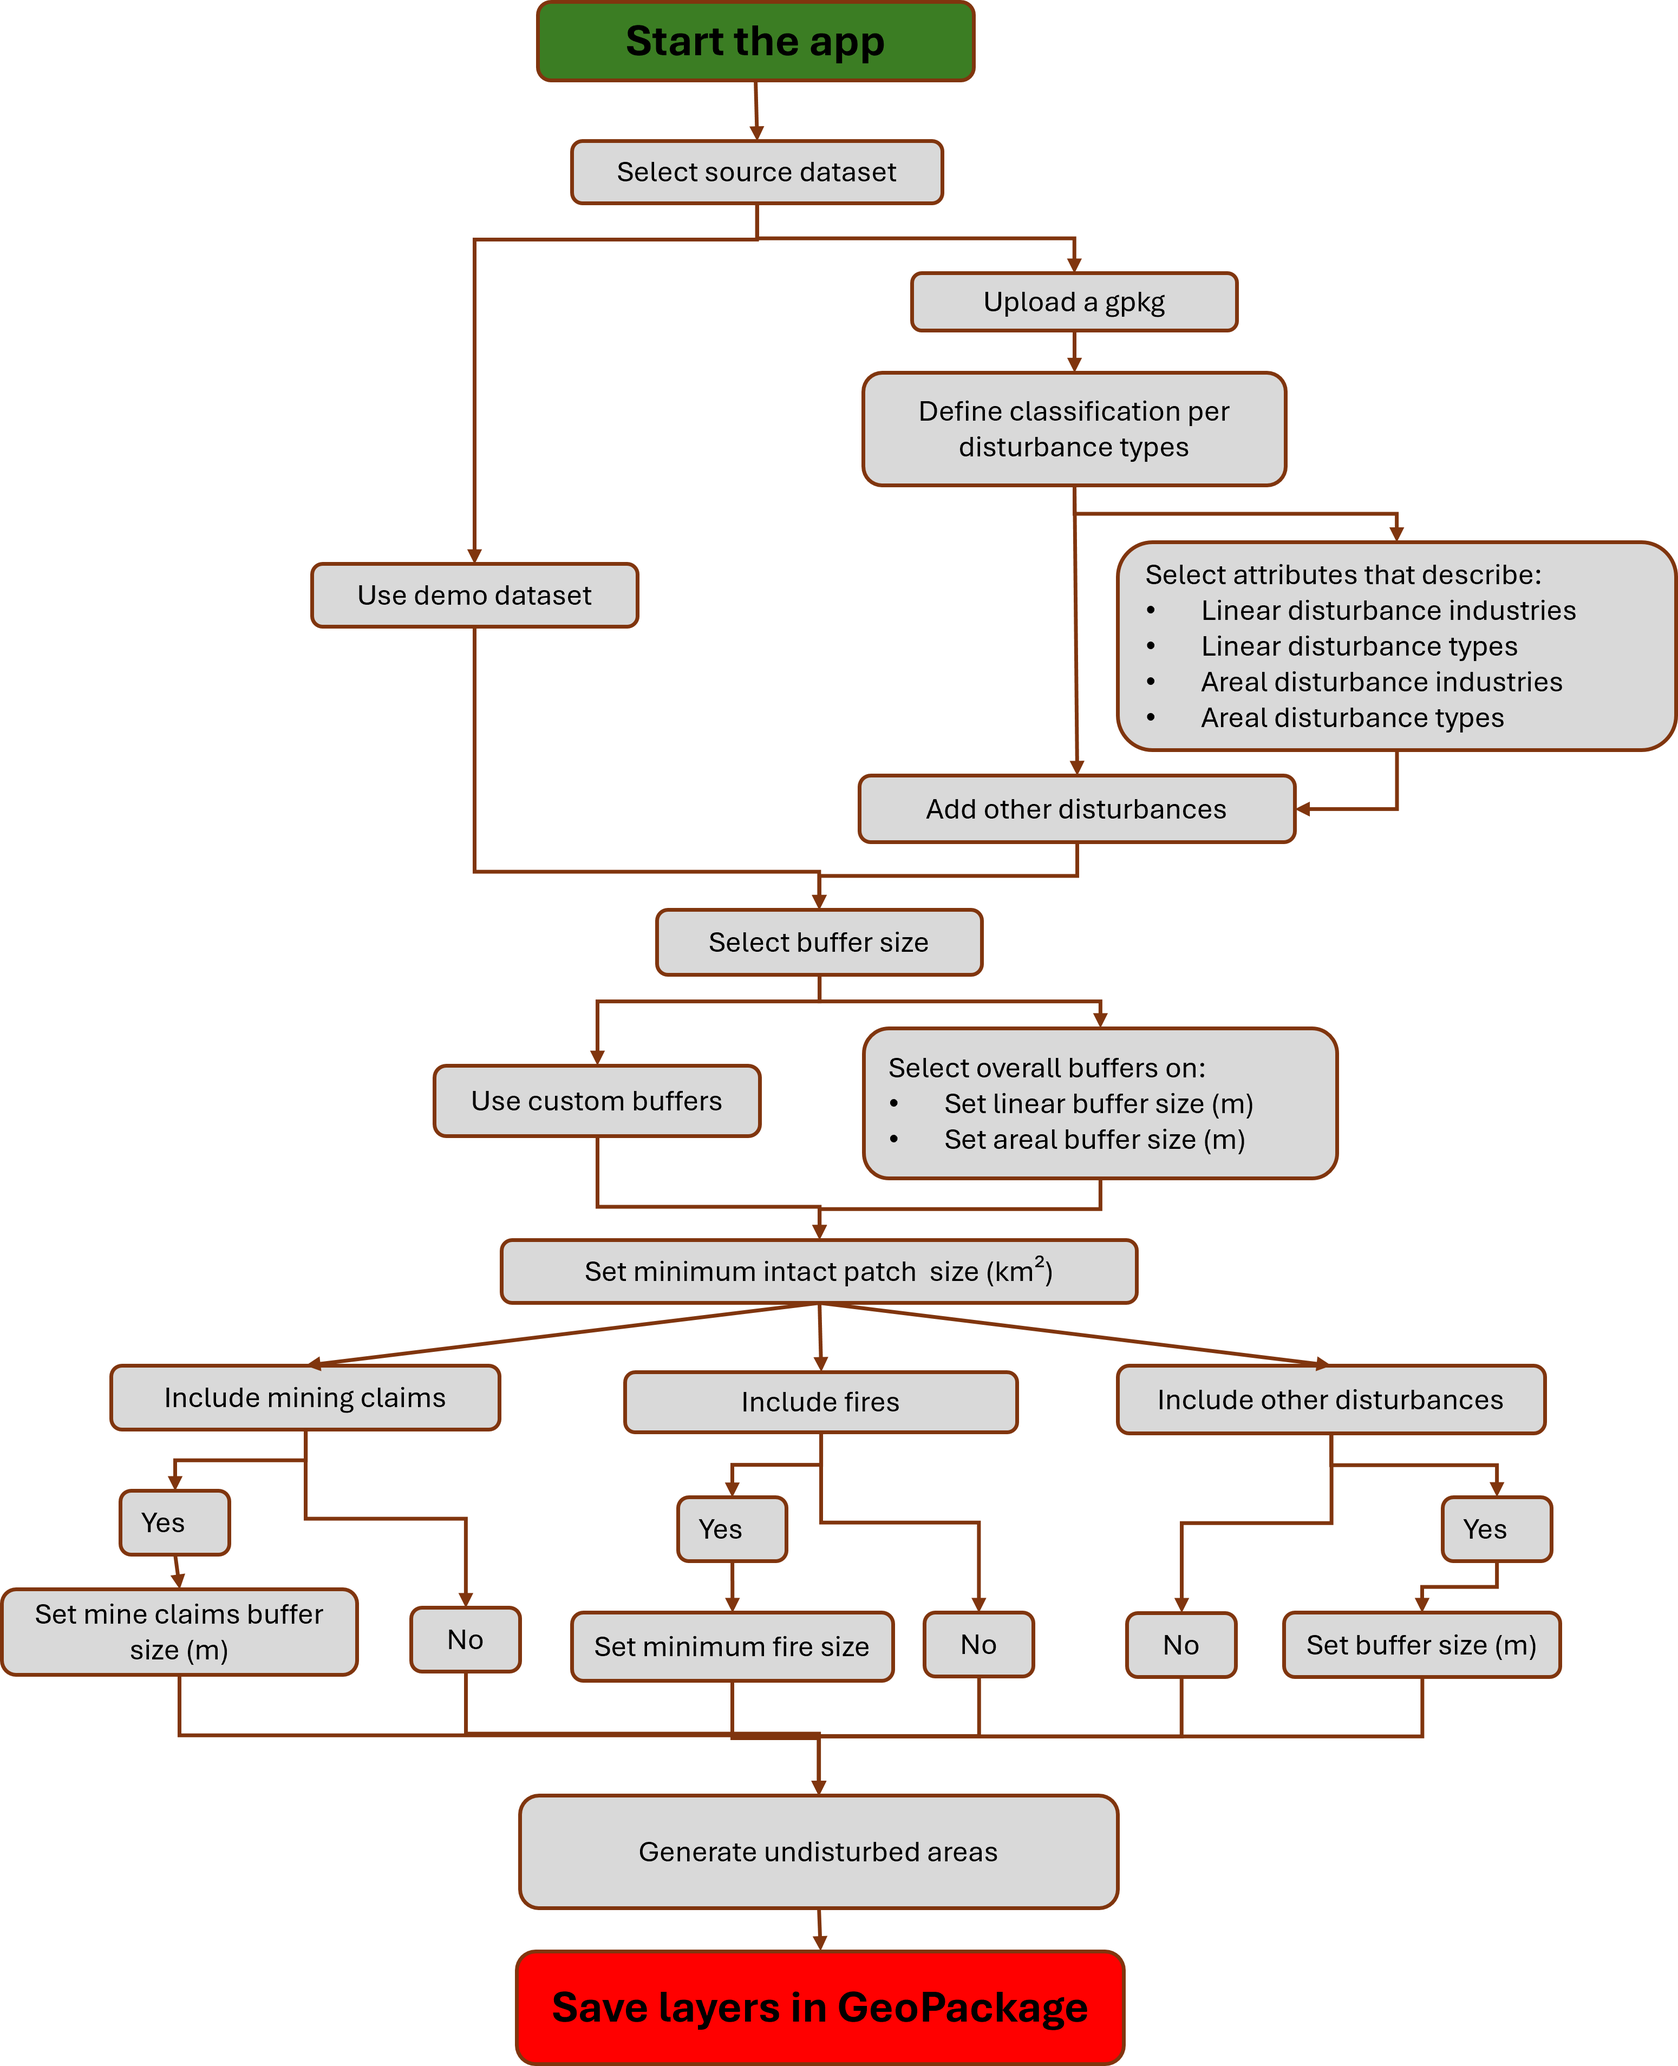
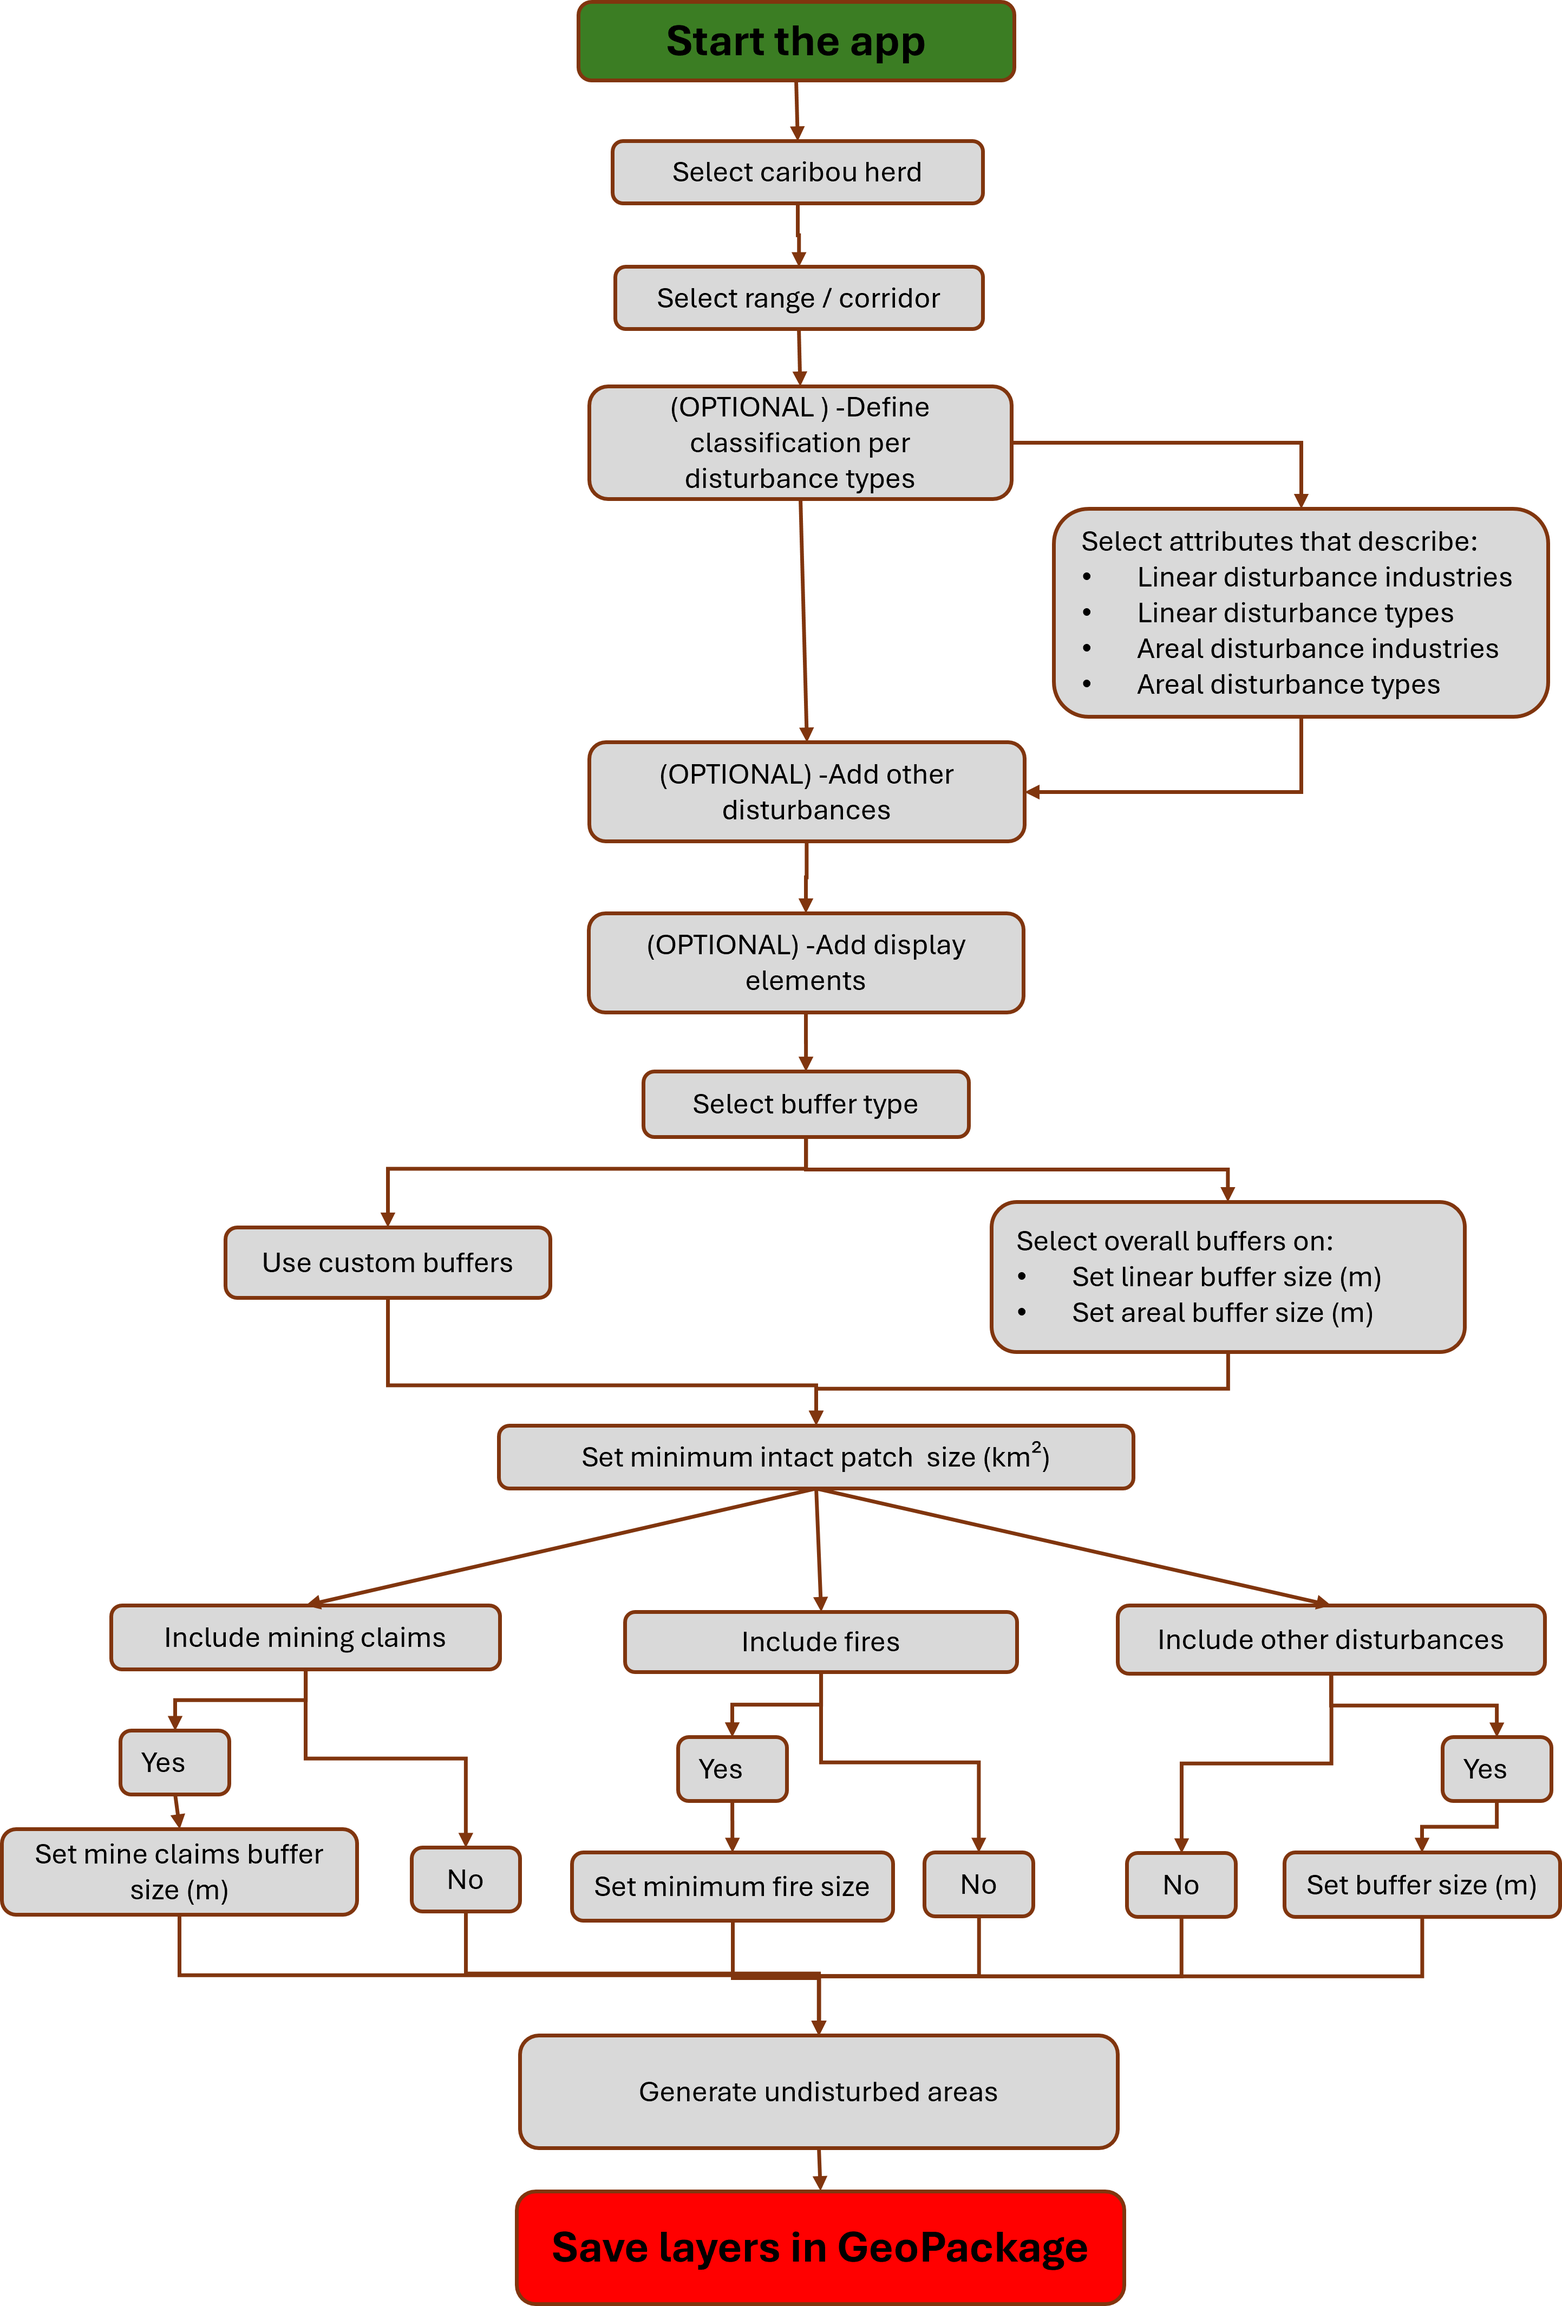
Update workflow

diff --git a/docs/overview.md b/docs/overview.md
@@ -54,7 +54,7 @@ by the app and cannot be modified.
     
   - Download a GeoPackage of the **undisturbed areas** and **disturbed areas** created by the app, as well as the input spatial layers (e.g., linear and areal disturbances).
   
-### Disturbance Explorer workflow diagram
+### Caribou Cumulative Effects Disturbance Explorer workflow diagram
 
 The worflow diagram below provides an overview of the process.
 
